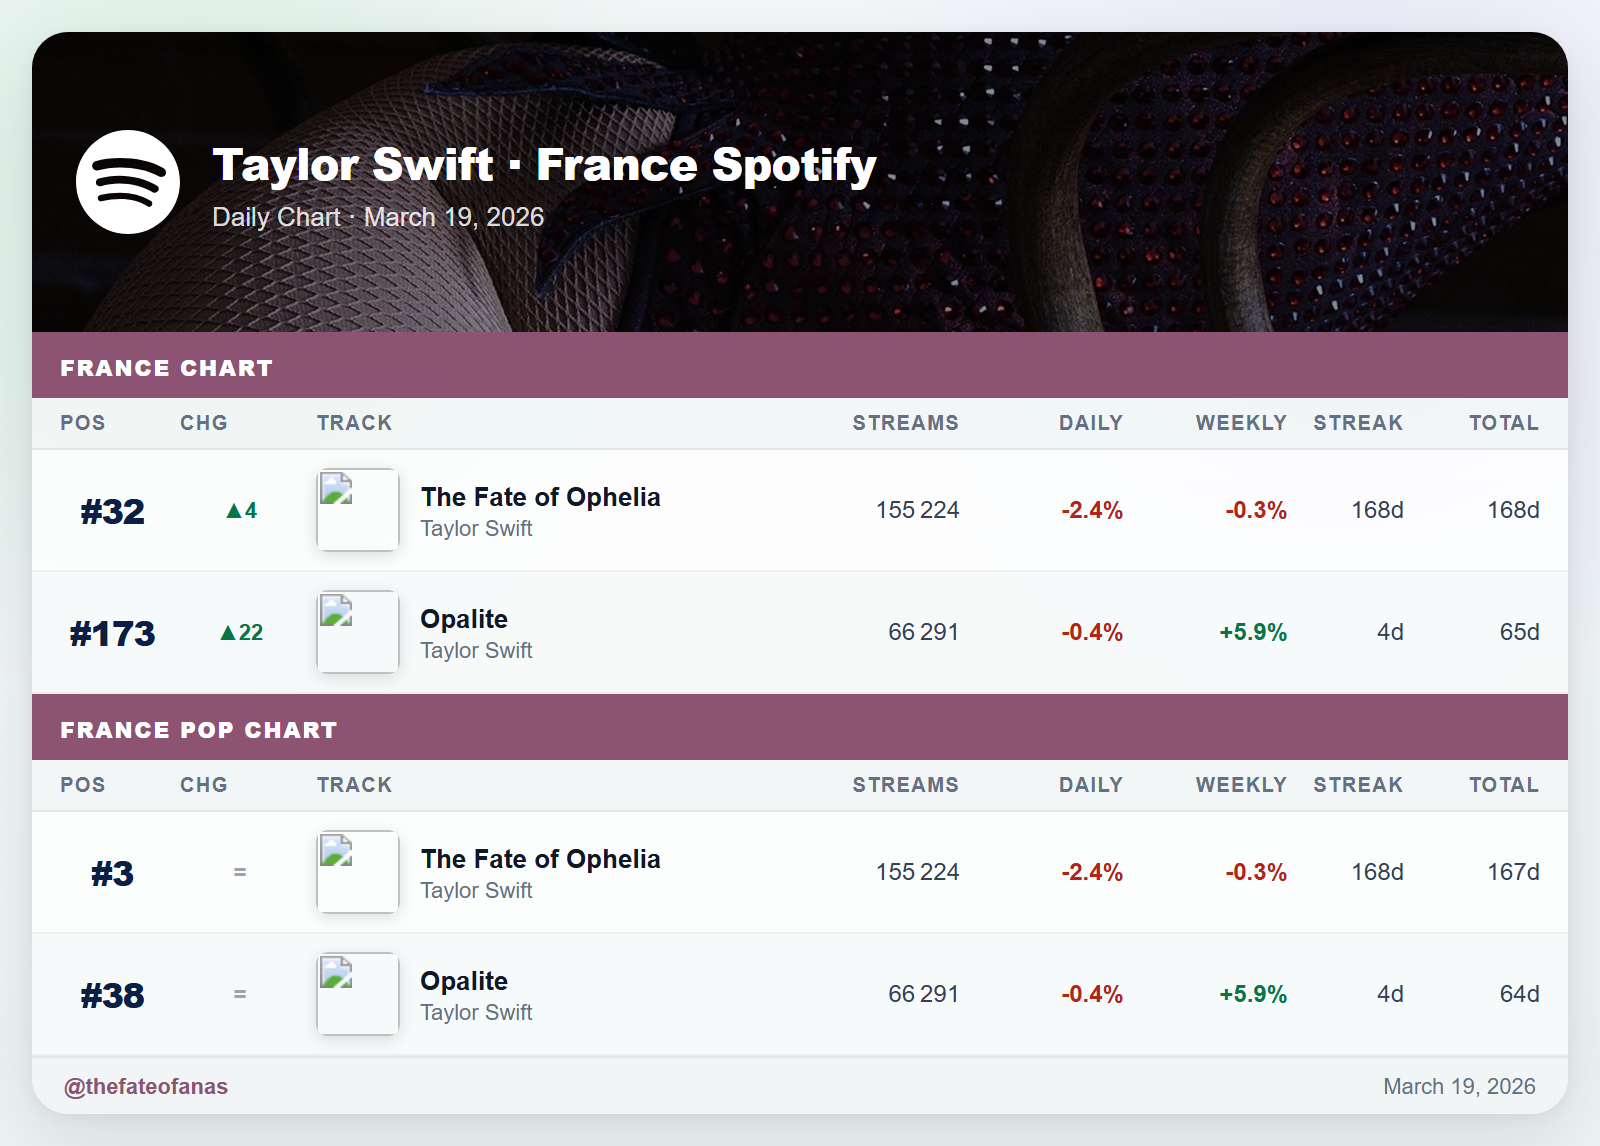
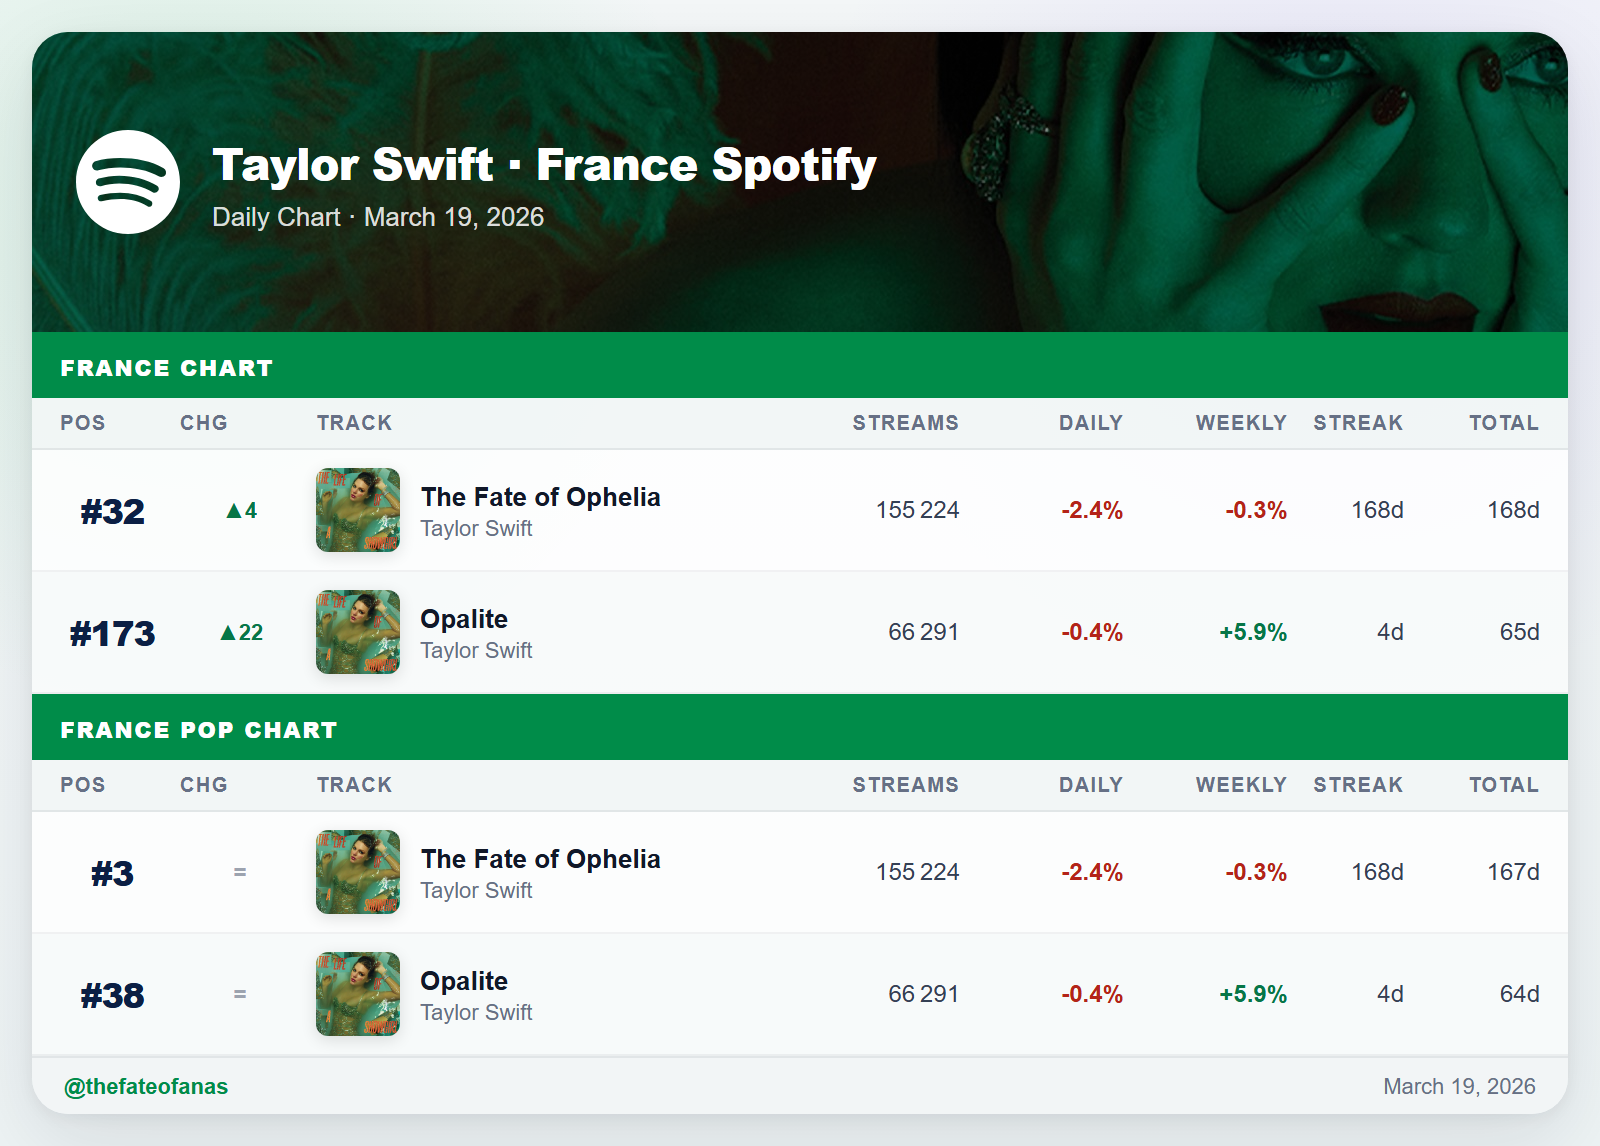
Update chart image rendering details and apply known fixes

diff --git a/Claude.md b/Claude.md
@@ -119,6 +119,10 @@ collectors/spotify/charts/<fr|global>/
 2. **`scripts/fill_images.py`** — fills `image_url` in all `db/discography/*.json` files using: songs.json track-ID lookup → covers.json album fallback → oEmbed API. Also generates `website/spotify-charts/track_covers.json` for the chart tracker.
 3. **`scripts/export_for_web.py`** — regenerates `website/site/data/` (songs.json, albums.json, etc.) from `db/discography/`.
 
+### Chart image rendering (`generate_chart_image.py`) — known fixes applied
+- **Covers priority** : `covers.json` (discography) > URL scrapée depuis Spotify. L'URL scrapée dans `filter.py` est assignée positionellement (rang 1, 2, 3 du chart global) et est donc souvent incorrecte pour les chansons TS.
+- **Base64 encoding** : les covers sont téléchargées en Python et injectées en `data:` URI avant le rendu Playwright, car Chromium bloque les requêtes `https://` depuis une page chargée via `file:///`.
+
 Run order when images are missing:
 ```bash
 python scripts/fix_song_images.py          # fill db/discography/songs.json
